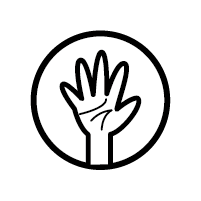
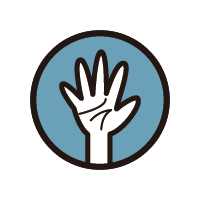
add background and egg

diff --git a/mainwindow.cpp b/mainwindow.cpp
@@ -11,37 +11,93 @@ MainWindow::MainWindow(QWidget *parent) :
 
     ui->setupUi(this);
     setupUiComponents();
-
 }
 
 void MainWindow::setupUiComponents() {
     setupBackground();
     setupButtons();
+    setupBibi();
 }
 
 void MainWindow::setupBackground() {
 
-    QMovie *background = new QMovie(":/background");
+    backgroundAnimationTimerId = startTimer(20);
 
-    if (!background->isValid()) {
-        qDebug("background animation is not found");
+}
+
+void MainWindow::setupBibi() {
+    QMovie *bibi = new QMovie(":/stateBorn");
+
+    if (!bibi->isValid()) {
+        qDebug("bibi animation is not found");
     } else {
-        qDebug("background animation is set");
+        qDebug("bibi animation is set");
     }
 
-    QLabel *backgroundContainer = new QLabel(this);
-    backgroundContainer->lower();
-    backgroundContainer->setMovie(background);
-    backgroundContainer->setGeometry(0, 0, 600, 600);
-    background->start();
-
+    QLabel *bibiContainer = new QLabel(this);
+    bibiContainer->setMovie(bibi);
+    bibiContainer->setGeometry(150, 150, 300, 300);
+    bibi->start();
 }
 
 void MainWindow::setupButtons() {
-    QPixmap image(":/images/buttonPush");
-    // buttonPush->setIcon(QIcon(image));
+    connect(ui->buttonEat, SIGNAL(clicked()), this , SLOT(buttonEatHandler()));
+    connect(ui->buttonShower, SIGNAL(clicked()), this , SLOT(buttonShowerHandler()));
+    connect(ui->buttonHeal, SIGNAL(clicked()), this , SLOT(buttonHealHandler()));
+    connect(ui->buttonPlay, SIGNAL(clicked()), this , SLOT(buttonPlayHandler()));
+    connect(ui->buttonTurnOffLight, SIGNAL(clicked()), this , SLOT(buttonTurnOffLightHandler()));
+}
+
+void MainWindow::buttonEatHandler() {
+    qDebug("eat button clicked");
+}
+
+void MainWindow::buttonShowerHandler() {
+    qDebug("shower button clicked");
+}
+
+void MainWindow::buttonHealHandler() {
+    qDebug("heal button clicked");
+}
+
+void MainWindow::buttonPlayHandler() {
+    qDebug("play button clicked");
+}
+
+void MainWindow::buttonTurnOffLightHandler() {
+    qDebug("turn off light button clicked");
 }
 
 MainWindow::~MainWindow() {
+    killTimer(backgroundAnimationTimerId);
     delete ui;
+}
+
+void MainWindow::timerEvent(QTimerEvent *event) {
+
+    QPixmap background(":/background");
+    QRegion exposed;
+    QPalette palette;
+
+    background.scroll(-backgroundImageOffset, 0, background.rect(), &exposed);
+    palette.setBrush(QPalette::Background, background);
+    this->setPalette(palette);
+
+    int delta = 1;
+    if (backgroundImageFaceRight) {
+        backgroundImageOffset += delta;
+    } else {
+        backgroundImageOffset -= delta;
+    }
+
+    checkAndTurnBackgroundImageFacing();
+
+}
+
+void MainWindow::checkAndTurnBackgroundImageFacing() {
+    if (backgroundImageOffset >= 1800 - 600) {
+        backgroundImageFaceRight = false;
+    } else if (backgroundImageOffset <= 0) {
+        backgroundImageFaceRight = true;
+    }
 }

diff --git a/mainwindow.h b/mainwindow.h
@@ -23,6 +23,21 @@ private:
     void setupUiComponents();
     void setupBackground();
     void setupButtons();
+    void setupBibi();
+    int backgroundAnimationTimerId;
+    int backgroundImageOffset = 0;
+    int backgroundImageFaceRight = true;
+    void checkAndTurnBackgroundImageFacing();
+
+protected:
+    void timerEvent(QTimerEvent *event);
+
+private slots:
+    void buttonEatHandler();
+    void buttonShowerHandler();
+    void buttonHealHandler();
+    void buttonPlayHandler();
+    void buttonTurnOffLightHandler();
 
 };
 
